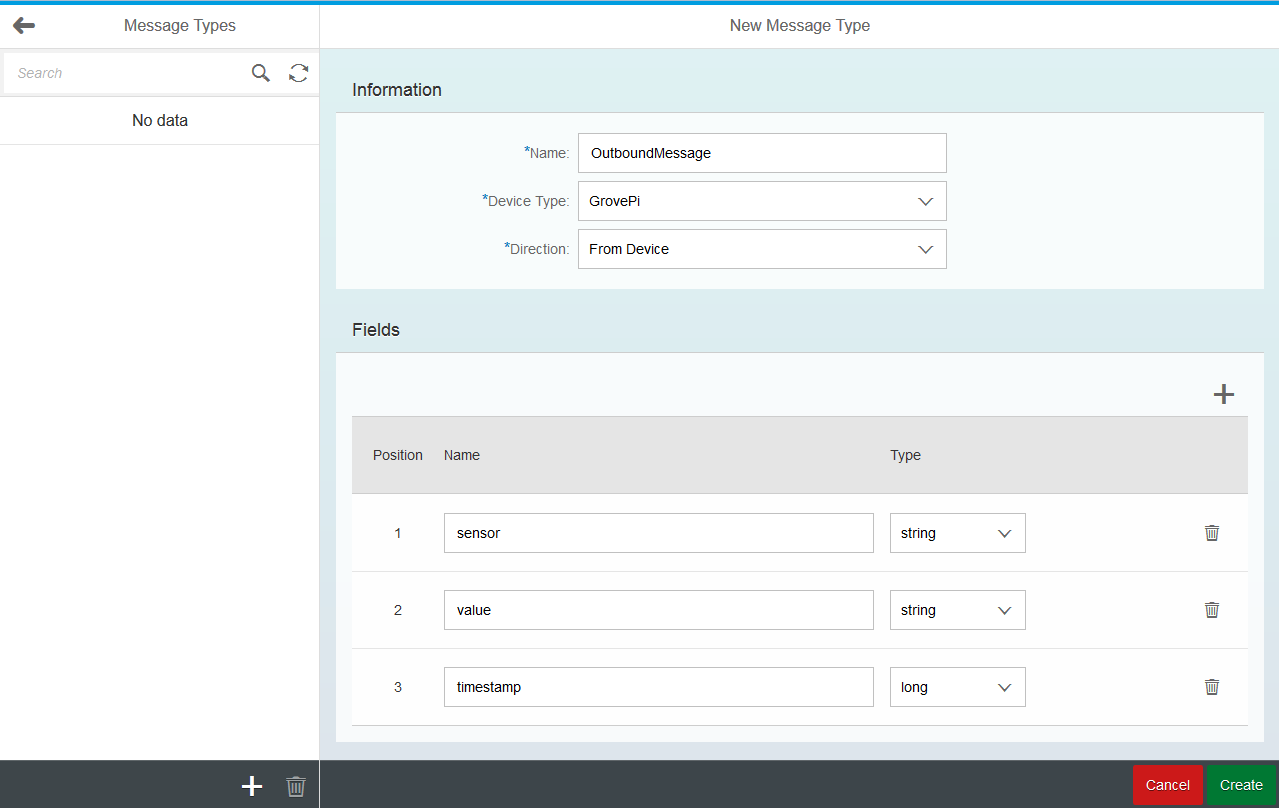
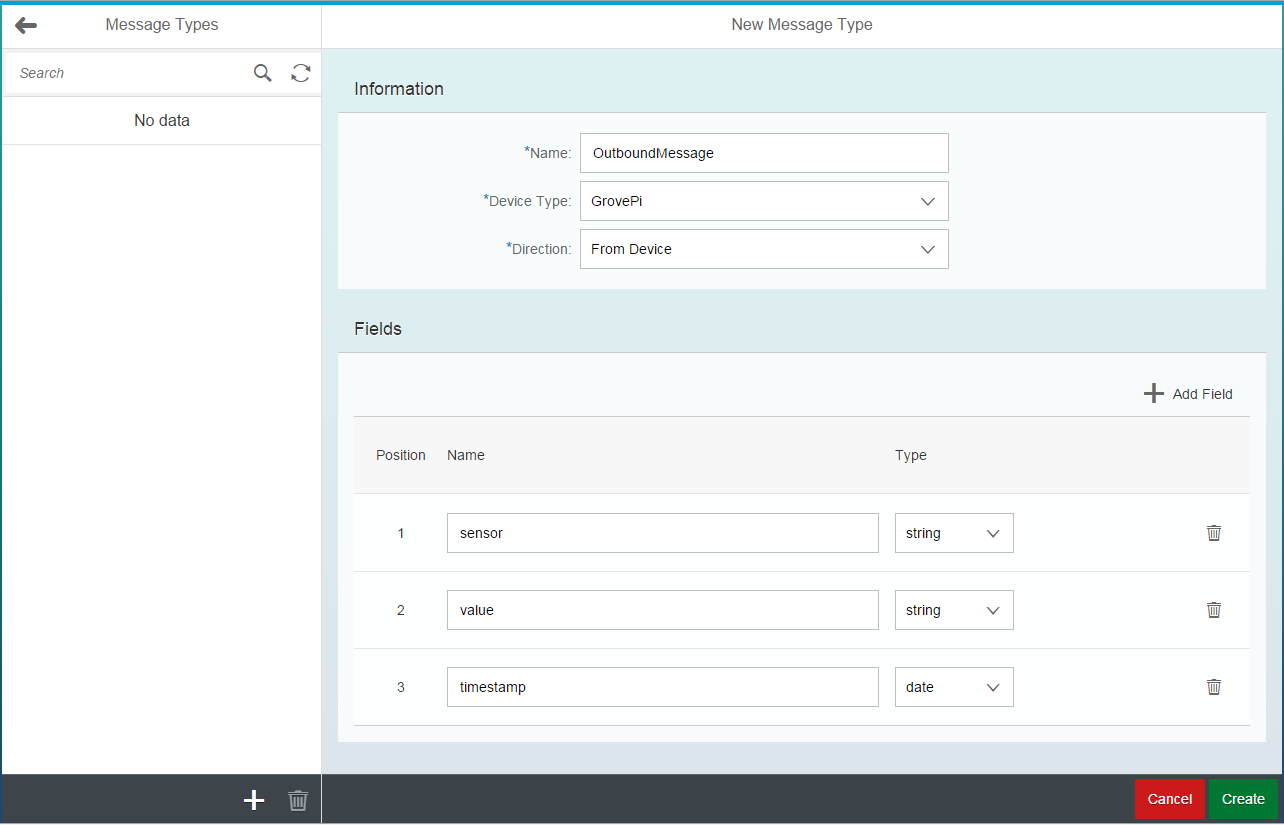
minor change in java end-to-end example app. use "timestamp" field of type "date" instead of "long" to be consistent with the default values in IoT Cockpit UI. it is backward compatible, a client can still send "timestamps" in long format (like "timestamp":1413191650) and receive both "long" and "da

diff --git a/src/apps/java/consumption/com.sap.iot.starterkit.ui/src/main/webapp/index.html b/src/apps/java/consumption/com.sap.iot.starterkit.ui/src/main/webapp/index.html
@@ -226,12 +226,25 @@
 				value : {
 					path : "sensor>C_TIMESTAMP",
 					formatter : function(oValue) {
+						var oDate = null;
 						//can be a string primitive in JSON, but we need a number
 						if ((typeof oValue) === "string") {
-							oValue = parseInt(oValue);
+							// backward compatibility, old type was long, new type is date
+							// check if not a number
+							var result = isNaN(Number(oValue));
+							if (result) {
+								// this is a date type
+								oDate = new Date(oValue);
+							} else {
+								// this is a long type
+								oValue = parseInt(oValue);
+								//ensure that UNIX timestamps are converted to milliseconds
+								oDate = new Date(oValue * 1000);
+							}
+						} else {
+							//ensure that UNIX timestamps are converted to milliseconds
+							oDate = new Date(oValue * 1000);
 						}
-						//ensure that UNIX timestamps are converted to milliseconds
-						var oDate = new Date(oValue * 1000);
 						return oDate.toLocaleString();
 					}
 				}

diff --git a/src/prerequisites/cockpit/README.md b/src/prerequisites/cockpit/README.md
@@ -45,7 +45,7 @@ The examples in the Starter Kit use the following specific Message Types that yo
 ```
 	sensor:string
 	value:string
-	timestamp:long
+	timestamp:date
 ```
 
 ![IoT Cockpit - Outbound Message Type Example](../../../images/iot_cockpit_add_message_type_01.png?raw=true "IoT Cockpit - Outbound Message Type Example")
